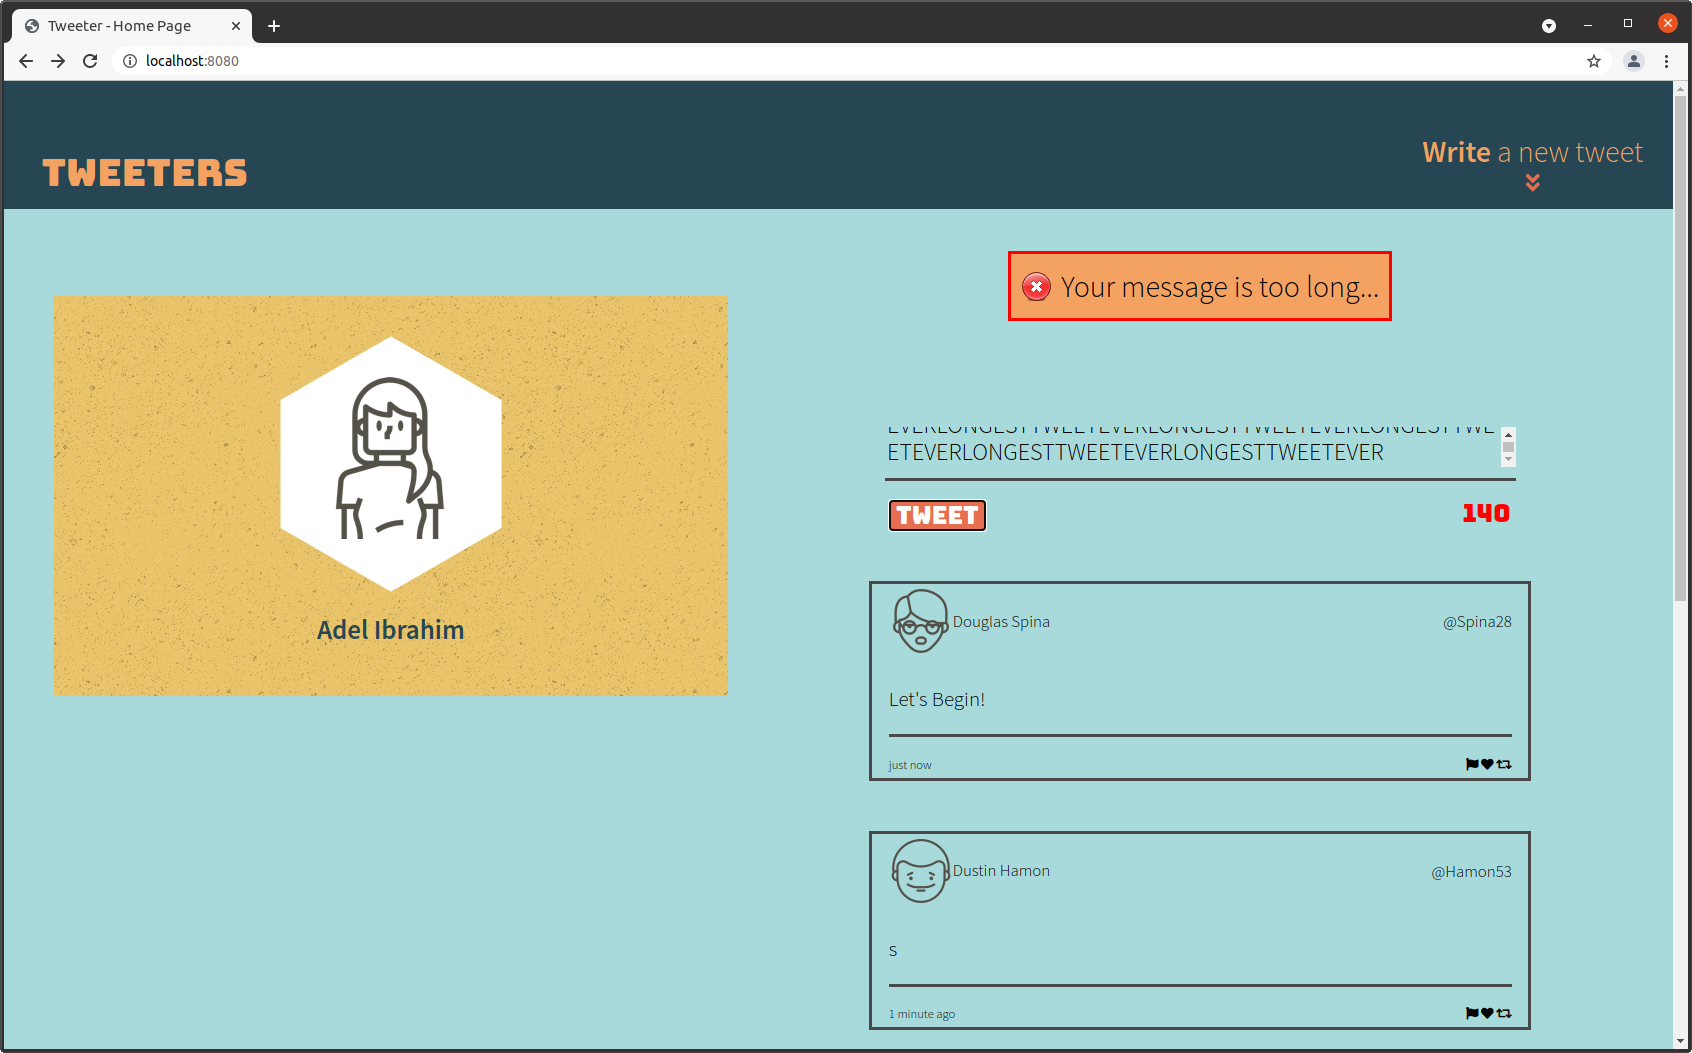
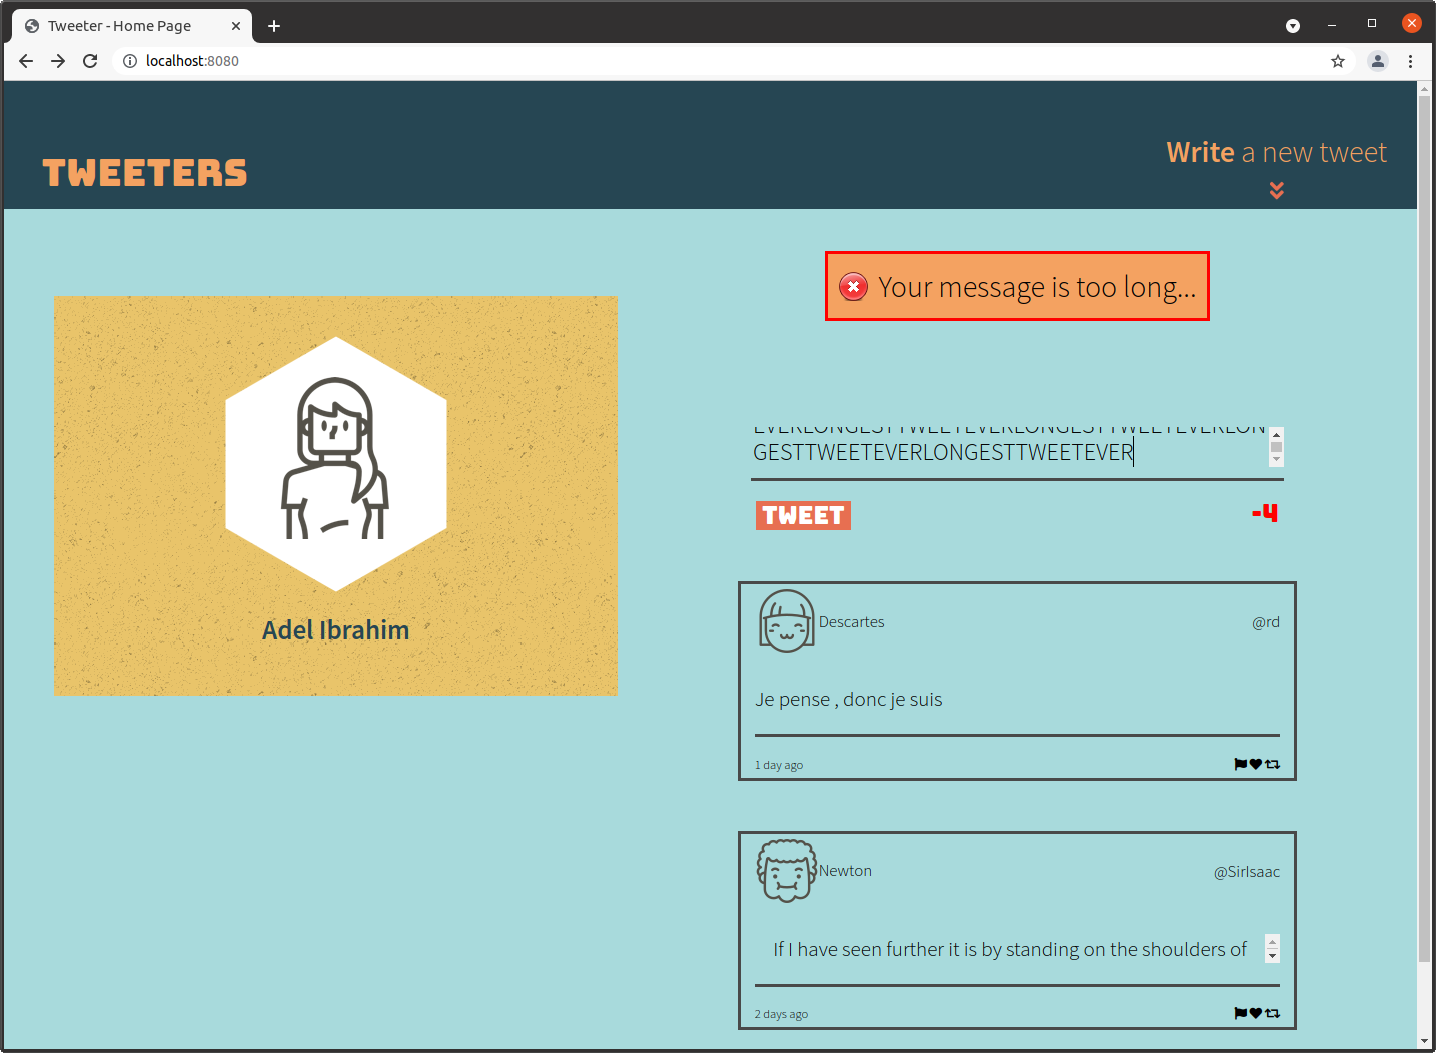
Updated input field clearing bug, updating screenshot

diff --git a/public/scripts/client.js b/public/scripts/client.js
@@ -85,8 +85,6 @@ $(document).ready(function() {
     event.preventDefault();
     //remove add red class from counter
     $('.counter').removeClass("add-red-to-new-tweet")
-    //clear text area
-    $('#tweet-text').val("");
     //reset counter to 140 upon submit request
     $('.counter').html(140);
     //hide if no errors
@@ -100,10 +98,11 @@ $(document).ready(function() {
     if (content.length > 140) {
       errMessage = 'Your message is too long...';
     }
-    
     $('.new-tweet-error').text(errMessage);
     if (errMessage) {
       $('.new-tweet-error').slideDown();
+      //clear text area
+      $('#tweet-text').val("");
       return;
     }
     //convert form -> textArea to query string format (name=value)

diff --git a/README.md b/README.md
@@ -12,7 +12,7 @@ Tweeter is a front-end featured web application built with Node and Express that
 ## Final Product
 
 !["Screenshot of error handling"](https://github.com/Soliloquiy/tweeter/blob/master/docs/error-handling.png)
-!["Screenshot of error handling-2"](https://github.com/Soliloquiy/tweeter/blob/master/docs/error-handling-2.png)
+!["Screenshot of error handling-2"]()
 !["Screenshot of mobile view"](https://github.com/Soliloquiy/tweeter/blob/master/docs/mobile-view.png)
 !["Screenshot of mobile view-2"](https://github.com/Soliloquiy/tweeter/blob/master/docs/mobile-view-2.png)!["Screenshot of tablet-desktop-view"](https://github.com/Soliloquiy/tweeter/blob/master/docs/tablet-desktop-view.png)
 !["Screenshot of tablet-desktop-view-2"](https://github.com/Soliloquiy/tweeter/blob/master/docs/tablet-desktop-view-2.png)
